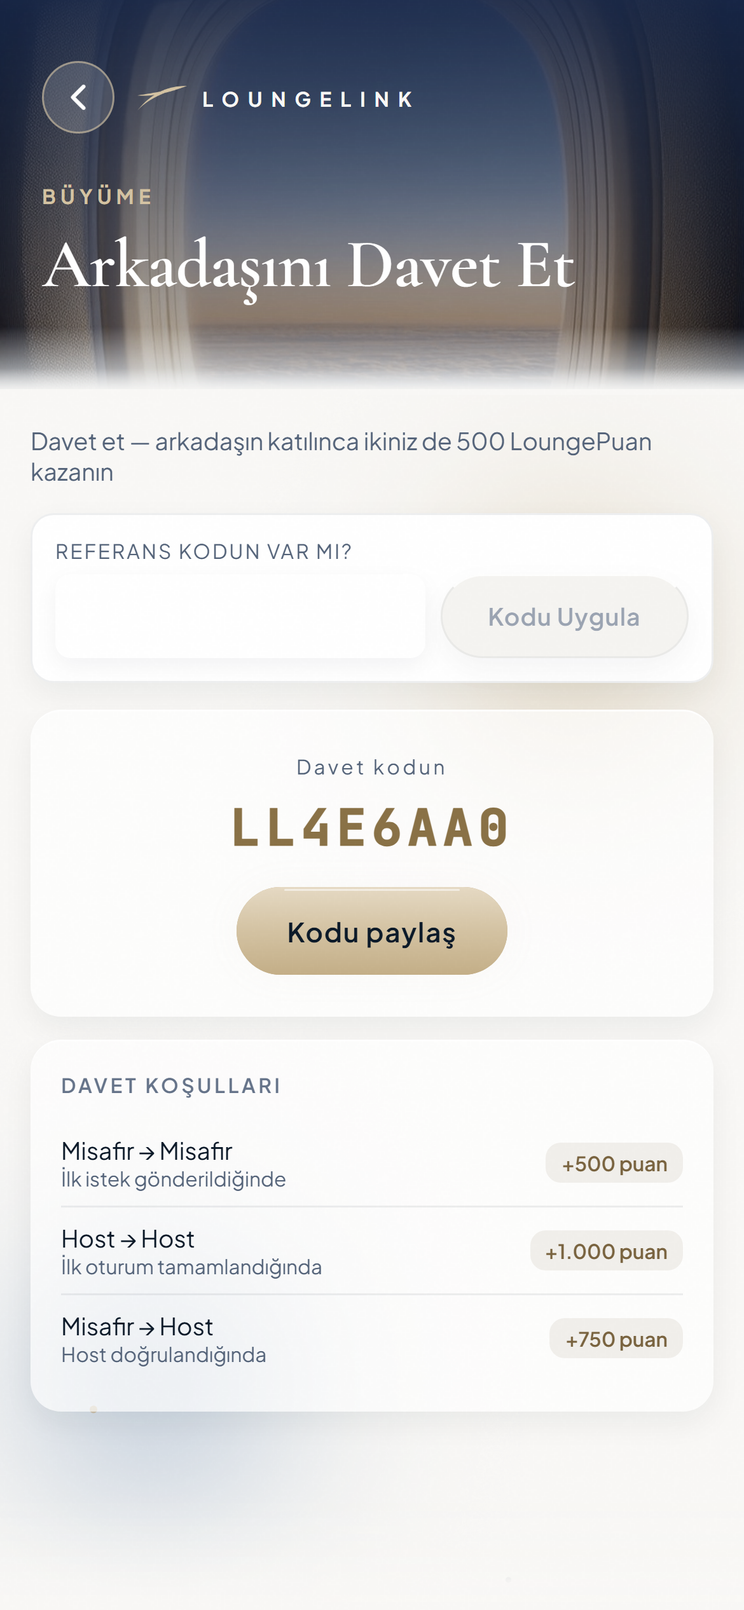
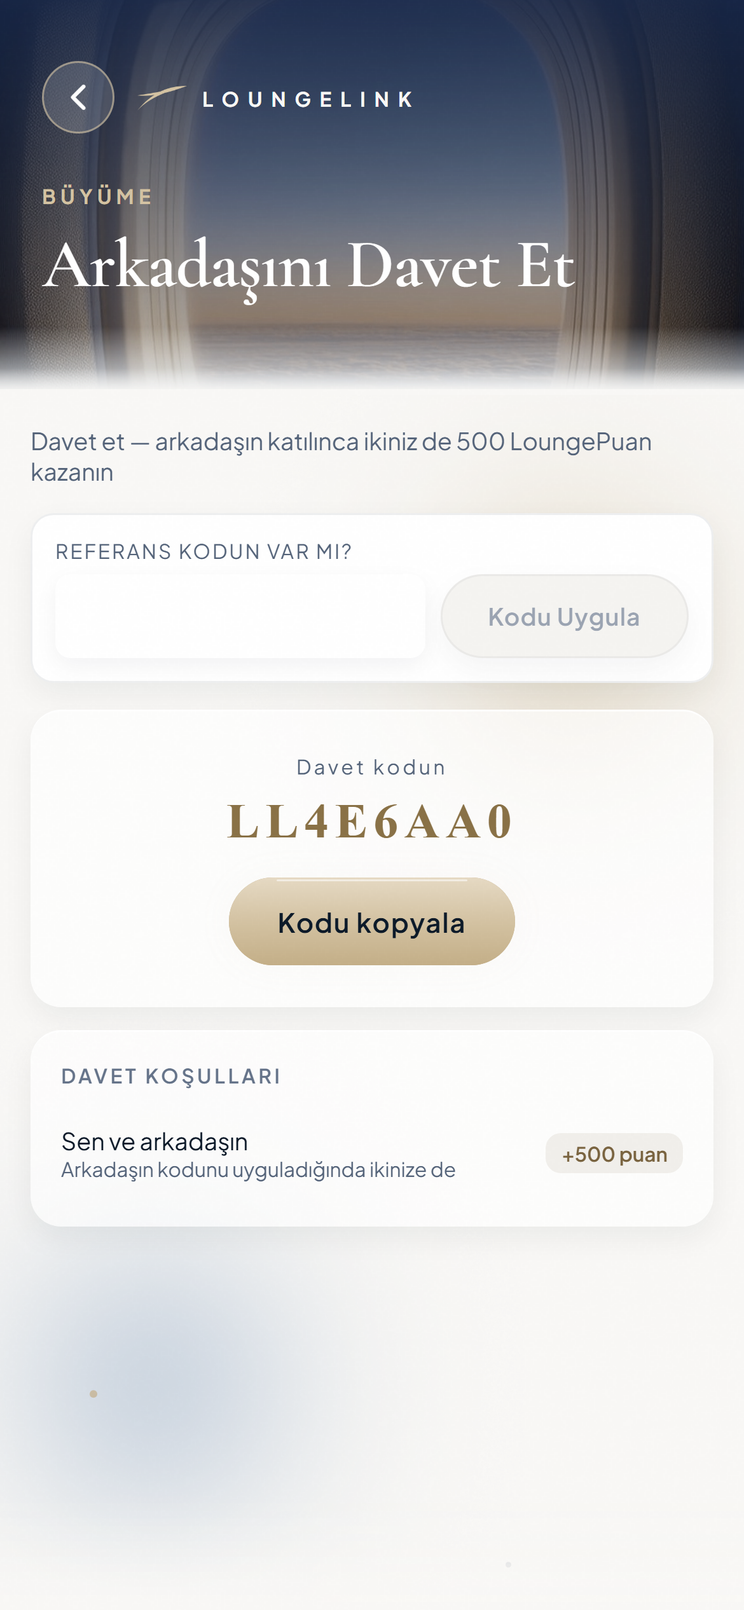
v7.2 son tur: 6.3.0, rozet/golge, plan cercevesi, K4 sahnesi, push ikon/renk, kodu kopyala, e2e Windows kosucusu

diff --git a/rnapp/src/ekranlar_ana.js b/rnapp/src/ekranlar_ana.js
@@ -38,6 +38,7 @@ import AsyncStorage from "@react-native-async-storage/async-storage";
 // Uyum yüzdesi, geri sayım, kredi. Gerekçe src/typography.js `MONO`.
 import { MONO } from "./typography";
 import { RotaHatti, BosDurum, ChipIcon, ConfirmModal, FotoBant, Hdr, LoadFail, TOPPAD, Toggle, ToneBadge, Sayfa, Btn, Secim, Cip, KararCipi, Olgu, useDaralanBant, Kaydirma, Muhur, IsikliKart, PerdeBulanik, POPUP_YUZEY, UyumMuhru, CamSerit, DurumSatiri, YeniEtiket, yeniCerceve } from "./ui";
+import * as Clipboard from "expo-clipboard";
 import React, { useCallback, useEffect, useRef, useState, useMemo} from "react";
 import { ActivityIndicator, BackHandler, Image, Linking, Modal, ScrollView, Share, StyleSheet, Text, TextInput, TouchableOpacity, View } from "react-native";
 import { Amenities, BaglantiIstekleri, Chat, DateInput, HaberVer, LiveStatus, Picker, Plans, ProfileCompletionWidget, ReportUser, RequestsPanel, VerifyPhone, profOpts, timeOk } from "./ekranlar_yalin";
@@ -2582,8 +2583,12 @@ export function Meet({ t, lang, session, rol, onOpenProfile, onOpenChat, radarFi
     // `discover_people.purpose` = visits.purpose (business/connecting/…) —
     // niyet değil. Eski eşleme (coffee/work/wait) hiç tutmuyordu, çip hiç
     // çıkmıyordu. Aynı amaç → "Aynı rota tanışma" (tasarım 05), değilse amacın adı.
-    const amac = p.same_purpose ? t.reqTypeRoute
-      : (p.purpose ? gorunur((PURPOSES.find(x => x[0] === p.purpose) || [])[1] || null) : null);
+    // 4 Ekim (Gökberk: "'aynı rota tanışma' cümlesi anlaşılmıyor") — `same_purpose` ROTA değil
+    // seyahat AMACIDIR (iş · aktarma · tatil). Rozet artık ne olduğunu söylüyor: "Aynı amaç · İş".
+    const amacAdi = p.purpose ? gorunur((PURPOSES.find(x => x[0] === p.purpose) || [])[1] || null) : null;
+    const amac = p.same_purpose
+      ? (amacAdi ? String(t.v7AyniAmac || "{x}").replace("{x}", amacAdi) : t.reqTypeRoute)
+      : amacAdi;
     return (
     <TouchableOpacity activeOpacity={0.85} disabled={!onAc && !p.user_id} hitSlop={TAP.slop}
       onPress={onAc || (() => p.user_id && onOpenProfile && onOpenProfile(p.user_id))}
@@ -2619,13 +2624,14 @@ export function Meet({ t, lang, session, rol, onOpenProfile, onOpenChat, radarFi
         {!!rota && <Text numberOfLines={1} style={{ color: C.mutedAA, fontSize: FS.xs + 1, marginTop: ARA[2] }}>{rota}</Text>}
         <View style={{ flexDirection: "row", flexWrap: "wrap", gap: ARA[6], marginTop: ARA[8] }}>
           {/* tasarım 05: aynı uçuş = teal ("ok"), amaç = bilgi tonu */}
-          {flightTag ? <Cip etiket={t.sameFlight} ton="teal" /> : null}
-          {amac ? <Cip etiket={amac} ton="purple" /> : null}
+          {flightTag ? <Cip etiket={t.sameFlight} ton="teal" isaret="ucus" /> : null}
+          {amac ? <Cip etiket={amac} ton="purple" isaret="hedef" /> : null}
           {/* 5 Eylül (Gökberk: "ilana git düğmesini kaldırdık mı?") — kartta
               düğme yok (tasarım 05); ilanı olan kişi altın çiple işaretlenir,
               kısayol bağlantı sayfasında ("İlanına git"). Host'a gösterilmez. */}
           {p.is_hosting && p.host_avail_id && rol !== "host" ? <Cip etiket={t.meetHasListing} ton="gold" /> : null}
-          {p.badge ? <Cip etiket={`• ${badgeLabel(t, p.badge)}${p.score != null ? ` · ${p.score}` : ""}`} ton="notr" /> : null}
+          {/* "• Temel Doğrulama · 38" — 38'in ne olduğu yazmıyordu → "Temel doğrulama · güven 38" */}
+          {p.badge ? <Cip etiket={`${badgeLabel(t, p.badge)}${p.score != null ? ` · ${String(t.v7GuvenKisa || "{n}").replace("{n}", String(p.score))}` : ""}`} ton="notr" isaret="guvenlik" /> : null}
           {p.connected ? <Cip etiket={t.connActiveShort} ton="teal" /> : null}
           {p.rel === "pending" ? <Cip etiket={t.connSent} ton="notr" /> : null}
           {ikinci}
@@ -4164,7 +4170,8 @@ export function Referral({ t, session, onBack }) {
         <RefCodeEntry t={t} />
         <View style={[S.card, { alignItems: "center", paddingVertical: ARA[22] }]}>
           <Text style={{ fontSize: FS.xs, color: C.mut, letterSpacing: 1.5 }}>{t.refCode}</Text>
-          <Text style={{ fontSize: FS.display, fontFamily: MONO[600], fontWeight: "700", color: C.gold, letterSpacing: 3, marginTop: SP[2] }}>{code || "..."}</Text>
+          {/* 4 Ekim (Gökberk): kod SEÇİLEBİLİR — uzun basınca kopyala/yapıştır da çalışır. */}
+          <Text selectable style={{ fontSize: FS.display, fontFamily: MONO[600], fontWeight: "700", color: C.gold, letterSpacing: 3, marginTop: SP[2] }}>{code || "..."}</Text>
           {/* 🔴 v2.99 — BU DÜĞME HİÇBİR ŞEY PAYLAŞMIYORDU.
               `onPress={() => setCopied(true)}` yalnız yazıyı "Kopyalandı"
               yapıyordu; panoda hiçbir şey yoktu. Altındaki üç kutu da
@@ -4180,30 +4187,29 @@ export function Referral({ t, session, onBack }) {
               🆕 SINIF: "ÇALIŞIYORMUŞ GİBİ GÖRÜNEN BİR DÜĞME, OLMAYAN BİR
               DÜĞMEDEN KÖTÜDÜR — ÇÜNKÜ KULLANICI ONU BİR KEZ DENER VE
               ÜRÜNÜN GERİ KALANINA DA GÜVENMEZ." */}
-          <Btn label={copied ? t.refCopied : t.refShare} onPress={async () => {
+          {/* 4 Ekim (Gökberk: "kodu paylaş'ta sadece kopyalama yapıyorsak buton adı 'Kodu kopyala' olsun") —
+              paylaşım sayfası yerine PANOYA kopyalama (expo-clipboard). Kişi kendi kodunu "Referans kodun
+              var mı?" alanında kullanamaz: sunucu `self_referral_blocked` döner (errMap'te TR+EN cümle). */}
+          <Btn label={copied ? t.refCopied : (t.refCopy || t.refShare)} onPress={async () => {
               if (!code) return;
-              setPaylasiyor(true);
               try {
-                // 🔴 DEĞİŞKENİ `r` DİYE ADLANDIRMIŞTIM ve RPC alan nöbetçisi
-                // `r.action`'ı `iletisim_epostam_yaz()`ın dönüşü sandı. Aynı
-                // sınıf hatayı bu projede ikinci kez yaptım (v2.96: `k`).
-                // 🆕 SINIF: "BİR DEĞİŞKEN ADI YALNIZ İNSANA DEĞİL, KAYNAĞI
-                // ADLA İZLEYEN NÖBETÇİYE DE BİLDİRİMDİR."
-                const paylasim = await Share.share({
-                  message: String(t.refShareMsg || "").replace("{kod}", String(code)),
-                });
-                if (paylasim && paylasim.action === Share.sharedAction) setCopied(true);
-              } catch (e) { logError("referans_paylas", e); }
-              finally { setPaylasiyor(false); }
+                await Clipboard.setStringAsync(String(code));
+                setCopied(true);
+                setTimeout(() => setCopied(false), 2400);
+              } catch (e) { logError("referans_kopyala", e); }
             }}
-            disabled={!code || paylasiyor} busy={paylasiyor}
+            disabled={!code}
             style={{ marginTop: ARA[14], paddingHorizontal: ARA[26] }} />
         </View>
         {/* MVP: davet koşulları tablosu */}
         <View style={S.card}>
           <Text style={{ fontSize: FS.xs, fontWeight: "600", color: C.dim, letterSpacing: 1.5, marginBottom: SP[3] }}>{t.refConditions}</Text>
           {/* 🔵 v2.99 — "Guest → Guest" TÜRKÇE ARAYÜZDE İNGİLİZCE duruyordu. */}
-          {[[t.refWhoGG, t.refCondGG, "+500"], [t.refWhoHH, t.refCondHH, "+1.000"], [t.refWhoGH, t.refCondGH, "+750"]].map(([who, when, pts], i, arr) => (
+          {/* 4 Ekim — KOŞUL TABLOSU SUNUCUYLA EŞİTLENDİ. Ekran üç kademe vaat ediyordu (+500 · +1.000 ·
+              +750); `apply_referral` yalnız kod uygulandığında İKİ TARAFA +500 veriyor, diğer kademeleri
+              veren hiçbir kod yok (ölçüldü: points_ledger nedenleri referral_invite/joined). Vaat
+              edilmeyen ödül gösterilmez. Kademeler istenirse sunucu tarafı önce yazılır. */}
+          {[[t.v7RefKim, t.v7RefNe, "+500"]].map(([who, when, pts], i, arr) => (
             <View key={who} style={{ flexDirection: "row", justifyContent: "space-between", alignItems: "center", paddingVertical: SP[2], borderBottomWidth: i < arr.length - 1 ? 1 : 0, borderBottomColor: C.line }}>
               <View>
                 <Text style={{ fontSize: FS.sm, color: C.ink }}>{who}</Text>

diff --git a/rnapp/src/kutu_isik.js b/rnapp/src/kutu_isik.js
@@ -30,7 +30,7 @@ function topla(st, o) {
   if (Array.isArray(st)) { for (let i = 0; i < st.length; i++) topla(st[i], o); return o; }
   if (typeof st !== "object") return o;
   for (const k of ["backgroundColor", "borderRadius", "padding", "paddingVertical",
-                   "paddingHorizontal", "paddingTop", "width", "shadowOpacity"]) {
+                   "paddingHorizontal", "paddingTop", "width", "shadowOpacity", "borderWidth", "borderColor"]) {
     if (st[k] !== undefined) o[k] = st[k];
   }
   return o;
@@ -41,14 +41,21 @@ const ISIK = Platform.OS === "android"
   : { shadowColor: "#0D1B2A", shadowOpacity: 0.07, shadowRadius: 18, shadowOffset: { width: 0, height: 6 },
       borderTopWidth: 1, borderTopColor: "rgba(255,255,255,0.9)" };
 
+// 4 Ekim (Gökberk: "plan sayfasında seçili planın çerçevesinin üstü yok") — üst ışık kenarı,
+// BİLİNÇLİ çerçevesi olan kutunun üst çizgisini eziyordu. Çerçeveli kutu yalnız gölge alır.
+const GOLGE = Platform.OS === "android" ? { elevation: 2 }
+  : { shadowColor: "#0D1B2A", shadowOpacity: 0.07, shadowRadius: 18, shadowOffset: { width: 0, height: 6 } };
 function isikliMi(style) {
   const o = topla(style, {});
-  if (!o.backgroundColor || !tintler().has(o.backgroundColor)) return false;
-  if (o.width !== undefined) return false;
-  if (o.shadowOpacity !== undefined) return false;   // kendi gölgesini seçmiş
-  if (!(o.borderRadius >= 10)) return false;
+  if (!o.backgroundColor || !tintler().has(o.backgroundColor)) return null;
+  if (o.width !== undefined) return null;
+  if (o.shadowOpacity !== undefined) return null;   // kendi gölgesini seçmiş
+  if (!(o.borderRadius >= 10)) return null;
   const pay = Math.max(o.padding || 0, o.paddingVertical || 0, o.paddingHorizontal || 0, o.paddingTop || 0);
-  return pay >= 10;
+  if (pay < 10) return null;
+  const cerceveli = (o.borderWidth || 0) > 0 && o.borderColor && o.borderColor !== "transparent"
+                    && !/rgba\([^)]*,\s*0\)$/.test(String(o.borderColor));
+  return cerceveli ? GOLGE : ISIK;
 }
 
 export function bilgiKutusuUygula() {
@@ -57,9 +64,8 @@ export function bilgiKutusuUygula() {
   const eski = B.render;
   B.__llKutu = true;
   B.render = function (props, ...rest) {
-    if (props && props.style && temaModu() === "v7" && isikliMi(props.style)) {
-      return eski.call(this, { ...props, style: [props.style, ISIK] }, ...rest);
-    }
+    const ek = props && props.style && temaModu() === "v7" ? isikliMi(props.style) : null;
+    if (ek) return eski.call(this, { ...props, style: [props.style, ek] }, ...rest);
     return eski.call(this, props, ...rest);
   };
   return true;

diff --git a/rnapp/src/ui.js b/rnapp/src/ui.js
@@ -582,7 +582,13 @@ export function Secim({ etiket, alt, secili, onPress, ton = "gold",
         alignSelf: cip ? "flex-start" : undefined,
         flex: segment ? 1 : undefined,
         opacity: disabled ? 0.55 : 1,
-      }, stil]}>
+      },
+      // v7.2 (Gökberk 4. tur: "gölgelendirmeler tanıştaki uçuş/salon/rota gibi sekme yapılarına da")
+      temaModu() === "v7" ? {
+        backgroundColor: secili ? secZemin : (zemin === "yok" ? "transparent" : "#FFFFFF"),
+        borderColor: secili ? (C.goldLine || T2.bd) : "transparent",
+        shadowColor: "#0D1B2A", shadowOpacity: zemin === "yok" ? 0 : 0.06, shadowRadius: 8, shadowOffset: { width: 0, height: 3 },
+      } : null, stil]}>
       {/* Radyo noktası — seçili hâlin İKİNCİ işareti. Yalnız renkle
           anlatılan bir seçim, renk körü bir kullanıcıda kaybolur.
           🆕 SINIF: "SEÇİLİLİK TEK BİR KANALDAN ANLATILIRSA, O KANALI
@@ -765,7 +771,10 @@ export function Cip({ etiket, ton = "gold", secili, onPress, onLongPress, stil, 
   }
   const zemin = secili ? C.goldBtn
     : dolgu ? ((C.badge && C.badge[dolgu === true ? (ton === "ok" ? "ok" : ton === "engel" ? "block" : "cost") : dolgu] || {}).bg || C.bgAlt)
-    : C.bgAlt;
+    : (temaModu() === "v7" ? "#FFFFFF" : C.bgAlt);
+  // v7.2 (Gökberk 4. tur: "badge alanlarına da gölge") — çip zeminde kaybolmasın.
+  const v7Golge = temaModu() === "v7" && !kabartma
+    ? { shadowColor: "#0D1B2A", shadowOpacity: 0.08, shadowRadius: 6, shadowOffset: { width: 0, height: 2 }, elevation: 1 } : null;
   // ══════════════════════════════════════════════════════════════════
   // `kabartma` — KARAR ROZETİ BİR ETİKET DEĞİL, BİR MÜHÜR (12 Eylül)
   //
@@ -793,7 +802,7 @@ export function Cip({ etiket, ton = "gold", secili, onPress, onLongPress, stil, 
     <View style={[{ height: 26, borderRadius: R.full, paddingHorizontal: ARA[12],
                     flexDirection: "row", alignItems: "center", alignSelf: "flex-start",
                     backgroundColor: zemin,
-                    borderWidth: 0 },
+                    borderWidth: 0 }, v7Golge,
                   kabartma ? {
                     // v7: siyah %38 gölge fildişi zeminde "kirli" duruyordu → lacivert %10.
                     shadowColor: temaModu() === "v7" ? "#0D1B2A" : "#000000",

diff --git a/rnapp/src/i18n.js b/rnapp/src/i18n.js
@@ -1523,6 +1523,8 @@ export const D = {
     v7SesCanli: "Oturum · canlı", v7SesIle: "{name} ile", v7SesBuluss: "Buluşma",
     v7NasilGecti: "Nasıl geçti?", v7Puan1: "Pek iyi değildi.", v7Puan2: "İdare eder.", v7Puan3: "İyiydi.",
     v7Puan4: "Çok iyiydi.", v7Puan5: "Harika bir sohbetti.", v7PuanBos: "Yıldızlara dokun.",
+    v7AyniAmac: "Aynı amaç · {x}", v7GuvenKisa: "güven {n}",
+    refCopy: "Kodu kopyala", v7RefKim: "Sen ve arkadaşın", v7RefNe: "Arkadaşın kodunu uyguladığında ikinize de",
     // Özellik saymayı bıraktık: "doğrulanmış yolcular, emanet korumalı"
     // bir liste, bir sahne değil. Sahne kuruluyor — kalkışa iki saat var
     // ve iki kişi aynı terminalde birbirini bilmiyor.
@@ -3601,6 +3603,8 @@ export const D = {
     v7SesCanli: "Session · live", v7SesIle: "With {name}", v7SesBuluss: "Meeting",
     v7NasilGecti: "How was it?", v7Puan1: "Not great.", v7Puan2: "It was okay.", v7Puan3: "It was good.",
     v7Puan4: "Really good.", v7Puan5: "A great conversation.", v7PuanBos: "Tap the stars.",
+    v7AyniAmac: "Same purpose · {x}", v7GuvenKisa: "trust {n}",
+    refCopy: "Copy code", v7RefKim: "You and your friend", v7RefNe: "When your friend applies your code, each of you gets",
     start: "Get Started",
     login: "Log In",
     name: "FULL NAME",

diff --git a/rnapp/App.js b/rnapp/App.js
@@ -1913,6 +1913,13 @@ export function Main({ t, lang, toggleLang, setLangGlobal, session }) {
             style={{ backgroundColor: temaModu() === "v7" ? "transparent" : C.bg, paddingHorizontal: ARA[14],
                      marginTop: temaModu() === "v7" ? -40 : 0, zIndex: 10,
                      paddingTop: temaModu() === "v7" ? ARA[26] : ARA[6], paddingBottom: ARA[18] }}>
+      {/* v7.2 (Gökberk 4. tur: "bildirimlerde işaretlediğim yerde arka planda bir şeyler görüyorum") —
+          çubuğun üst payı tamamen saydamdı: liste metni kapsülün üstünde yarım kesik görünüyordu.
+          Fildişi geçiş (alttan opak → üstte saydam): içerik çubuğun altına süzülerek kaybolur. */}
+      {temaModu() === "v7" ? (
+        <Image pointerEvents="none" source={require("./assets/v7_fildisi_alt.png")} resizeMode="stretch"
+          style={{ position: "absolute", left: 0, right: 0, top: 0, bottom: 0, width: "100%", height: "100%" }} />
+      ) : null}
       {/* 🔴 28 EYLÜL (Gökberk: "tüm iç sayfalarda tabbar görünüyor, arkadaki
           butonları örtüyor; tabbara basınca arkadaki butona basılıyor").
           KÖK: kapsülün Android yükseltmesi 12, iç sayfa katmanınınki 0.

diff --git a/rnapp/src/push.js b/rnapp/src/push.js
@@ -109,7 +109,8 @@ async function tokenKaydet() {
           // Gece sisteminin altını (#E0BE7A). Eskiden AÇIK temanın
           // altını (#B8943A) yazıyordu — koyu bildirim gölgesinde
           // çamurlu okunuyordu ve ürünün hiçbir yerinde o renk yok.
-          lightColor: C.gold,
+          // v7: bildirim ışığı şampanya (marka ışığı); simge ve uygulama adı app.json'da bronz.
+          lightColor: C.goldBtn || C.gold,
         });
       }
     }

diff --git a/rnapp/web_sahne/cek.py b/rnapp/web_sahne/cek.py
@@ -128,6 +128,7 @@ SAHNELER = {
     "88_oturum_puanla": ("selin",  [("dokun", "Şimdi puanla"), ("bekle", 2200), ("dokun", "Şimdi puanla"), ("bekle", 1800)]),   # ekran: Chat · oturum paneli (puanlama · K8)
     "89_seyahat_duzenle": ("gokberk", [("dokun", "Planım"), ("bekle", 900), ("dokun_a11y", "Seyahati düzenle"), ("bekle", 1200)]),   # ekran: EditTrip
     "90_ilan_duzenle": ("selin",   [("dokun", "Planım"), ("bekle", 700), ("dokun_a11y", "İlanlarım"), ("bekle", 900), ("dokun", "İlanı düzenle"), ("bekle", 1200)]),   # ekran: EditAvailability
+    "91_kural_damga": ("nehir", [("dokun", "Keşfet"), ("bekle", 1800), ("dokun_a11y", "Filtre"), ("bekle", 600), ("dokun", "Havalimanı seç…"), ("bekle", 600), ("yaz", "Havalimanı ara…", "ADB"), ("bekle", 800), ("ilk_metin", "ADB"), ("bekle", 900), ("dokun_a11y", "Filtre"), ("bekle", 1500), ("dokun_a11y", "Uyum"), ("bekle", 1200), ("kaydir",), ("bekle", 2600)]),   # K4 · 10/10 şart (Tuna H. · ADB) — damga
     "86_akis_nehir_sohbet":  ("nehir", [("dokun", "SOHBET"), ("bekle", 1500), ("dokun_a11y", "Sohbeti Aç"), ("bekle", 1500)]),   # ekran: Chat (v7 · gokberk dünyasında oturum yok)
     "74_akis_nehir_baglanti":("nehir", [("dokun", "SOHBET"), ("dokun_a11y", "Bağlantılar"), ("bekle", 1200)]),   # ekran: HomeConnections
     "75_akis_arda_ana":      ("arda",  [("bekle", 1500)]),   # ekran: Home
@@ -292,6 +293,14 @@ def adim_uygula(pg, adim, kayit):
             except Exception:
                 ortala(hedef)
                 hedef.click(timeout=4000)
+        elif tur == "ilk_metin":
+            pg.get_by_text(re.compile("^\s*" + re.escape(adim[1]), re.I)).first.click(timeout=4000)
+        elif tur == "kart_uyum":
+            # 4 Ekim — belirli bir KARTIN uyum mührüne dokun (tüm mühürlerin etiketi aynı: "Uyum puanı: NN").
+            kart = pg.locator("div", has_text=adim[1]).filter(has=pg.get_by_label(re.compile("Uyum", re.I))).last
+            hedef = kart.get_by_label(re.compile("Uyum", re.I)).first
+            ortala(hedef)
+            hedef.click(timeout=4000)
         elif tur == "yaz":
             pg.get_by_placeholder(adim[1]).first.fill(adim[2], timeout=4000)
         elif tur == "bekle":
@@ -487,6 +496,12 @@ def cek(sahneler, tam=False):
                 for adim in adimlar:
                     adim_uygula(pg, adim, kayit)
                 pg.wait_for_timeout(900)
+                # 4 Ekim: soğuk tarayıcıda ilk sahnede görseller (açılış kanadı) henüz yüklenmemiş olabiliyordu
+                # → kare kanatsız çekildi. Bütün <img>'ler tamamlanana kadar bekle (en çok 6 sn).
+                try:
+                    pg.wait_for_function("Array.from(document.images).every(i => i.complete && i.naturalWidth > 0)", timeout=6000)
+                except Exception:
+                    kayit["errors"].append("gorseller 6 sn'de yuklenmedi")
                 # Windows'ta PNG yazımı arada kilitleniyor (Errno 22, iki kez ölçüldü): 4 deneme.
                 for _den in range(4):
                     try:

diff --git a/rnapp/render_check/e2e_win_kos.py b/rnapp/render_check/e2e_win_kos.py
@@ -1,0 +1,59 @@
+# Windows'ta e2e testlerini koşturan sarmalayıcı (test dosyalarına dokunmaz).
+# Neden: testler psql'i yalnız {PATH, HOME} ortamıyla çağırıyor (Linux varsayımı). Windows'ta
+# SYSTEMROOT olmadan psql ağ katmanını açamıyor ve hata metni cp1254 geldiği için UTF-8 çözümü
+# patlıyordu. Burada alt süreçlere tam Windows ortamı + PGCLIENTENCODING=UTF8 verilir.
+# Kullanım: python render_check/e2e_win_kos.py render_check/iptal_akisi_e2e.py
+import os, runpy, subprocess, sys
+
+_orig = subprocess.run
+
+
+def _run(*a, **k):
+    # Windows psql'i URI'den SONRAKİ seçenekleri yok sayıyor ("extra command-line argument
+    # ignored") → sorgular ve migration'lar hiç koşmuyordu. URI'yi `-d` ile başa al.
+    if a and isinstance(a[0], (list, tuple)) and a[0] and str(a[0][0]).lower().rstrip(".exe").endswith("psql"):
+        cmd = list(a[0])
+        uri = next((x for x in cmd[1:] if str(x).startswith("postgres")), None)
+        if uri is not None:
+            cmd.remove(uri)
+            cmd = [cmd[0], "-d", uri] + cmd[1:]
+        # Windows komut satırı UTF-8 SQL'i cp1254'e çeviriyor ("—" → 0x97, geçersiz UTF8):
+        # ASCII dışı -c argümanları geçici dosyaya yazılıp -f ile verilir (sıra korunur).
+        yeni = []
+        i = 0
+        while i < len(cmd):
+            if cmd[i] == "-c" and i + 1 < len(cmd) and any(ord(ch) > 127 for ch in str(cmd[i + 1])):
+                import tempfile
+                fd, yol = tempfile.mkstemp(suffix=".sql")
+                with os.fdopen(fd, "w", encoding="utf-8") as f:
+                    f.write(str(cmd[i + 1]))
+                yeni += ["-f", yol]
+                i += 2
+                continue
+            yeni.append(cmd[i]); i += 1
+        a = (yeni,) + tuple(a[1:])
+    if k.get("env") is not None:
+        e = dict(os.environ)
+        for kk, vv in k["env"].items():
+            if kk not in ("PATH", "HOME"):
+                e[kk] = vv
+        e["PGCLIENTENCODING"] = "UTF8"
+        e["LC_MESSAGES"] = "C"
+        k["env"] = e
+    if k.get("text") or k.get("universal_newlines"):
+        k.setdefault("encoding", "utf-8")
+        k.setdefault("errors", "replace")
+    r = _orig(*a, **k)
+    try:
+        cmd = a[0] if a else []
+        if os.environ.get("E2E_LOG") and ("-f" in cmd or "-c" in cmd) and r.returncode != 0:
+            with open(os.environ["E2E_LOG"], "a", encoding="utf-8") as f:
+                f.write(str(cmd[(cmd.index("-f") if "-f" in cmd else cmd.index("-c")) + 1])[:120] + " :: " + str(r.stderr)[:600] + chr(10))
+    except Exception:
+        pass
+    return r
+
+
+subprocess.run = _run
+sys.argv = sys.argv[1:]
+runpy.run_path(sys.argv[0], run_name="__main__")

diff --git a/rnapp/web_sahne/hareket_kayit.py b/rnapp/web_sahne/hareket_kayit.py
@@ -35,6 +35,13 @@ def main():
                 kim = cek.SAHNELER[sahne][0]
                 pg.goto(f"http://127.0.0.1:{port}/?sahne={sahne}&kim={kim}&dil=tr&kopru=http://127.0.0.1:{cek.KOPRU_PORT}",
                         wait_until="networkidle")
+                # Soğuk tarayıcı: görseller yüklenmeden hareket başlarsa (K1) kanat görünmüyordu.
+                # Önce her şey yüklensin, sonra sayfa yeniden açılsın ve hareket baştan oynasın.
+                try:
+                    pg.wait_for_function("Array.from(document.images).every(i => i.complete && i.naturalWidth > 0)", timeout=8000)
+                except Exception:
+                    pass
+                pg.reload(wait_until="networkidle")
                 pg.wait_for_timeout(sure)
                 ctx.close()
                 vid = glob.glob(os.path.join(gecici, "*.webm"))

diff --git a/rnapp/brand/build_v7_perde.py b/rnapp/brand/build_v7_perde.py
@@ -68,3 +68,17 @@ for y in range(h):
             break
 im.save(os.path.join(A, "v7_acilis_perde.png"))
 print("v7_acilis_perde.png")
+
+# Bildirim kucuk ikonu (Android): BEYAZ siluet, saydam zemin, 96x96 — kanat (v7 marka isareti).
+k = Image.open(os.path.join(A, "mark-kanat.png")).convert("RGBA")
+alfa = k.getchannel("A")
+bbox = alfa.getbbox()
+alfa = alfa.crop(bbox)
+w, h = alfa.size
+olcek = 80 / max(w, h)
+alfa = alfa.resize((max(1, round(w * olcek)), max(1, round(h * olcek))), Image.LANCZOS)
+ikon = Image.new("RGBA", (96, 96), (255, 255, 255, 0))
+beyaz = Image.new("RGBA", alfa.size, (255, 255, 255, 255)); beyaz.putalpha(alfa)
+ikon.alpha_composite(beyaz, ((96 - alfa.width) // 2, (96 - alfa.height) // 2))
+ikon.save(os.path.join(A, "notification-icon.png"))
+print("notification-icon.png")

diff --git a/DEVIR/2026-10-02b_v7-aviation-light-onay-paketi.md b/DEVIR/2026-10-02b_v7-aviation-light-onay-paketi.md
@@ -198,3 +198,47 @@ Web sahnedeki 3 hatalı sahne v7 kaynaklı değil:
   - app_boot gecti
 - Web sahne 89/89 temiz. 9 video.
 - Onay sayfasi v5.
+
+## EK 5 · 4 Ekim (son tur, kullanim siniri doldu - build ALINMADI)
+- Surum 6.3.0: app.json versionCode 279, buildNumber 273, package.json + lock.
+- Splash kanadi: kod dogru, olculdu (12k acik piksel). Eksiklik cekim yarisiydi.
+  - Sebep: soguk tarayicida ilk sahne.
+  - Duzeltme: cek.py ve hareket_kayit.py gorseller yuklenene kadar bekler; K1 videosu yeniden kayitla duzelir.
+- kutu_isik: cerceveli kutu yalniz golge alir; Plan secili cercevesi duzeldi.
+- Golge ve rozetler:
+  - Secim/Cip v7: beyaz + golge.
+  - Rozetler ikonlu: "Ayni amac · X" (eski "Ayni rota tanisma" yanlisti, same_purpose = seyahat amaci), "Temel dogrulama · guven N".
+- Sekme cubugu arkasina fildisi gecis (bildirimlerde metin sizmasi).
+- K4: scene 91_kural_damga (Nehir · ADB Tuna H. ilani, 10/10 sart) -> damga gorunuyor. 03b'de sart bilinmiyor -> damga yok (dogru davranis).
+- Push:
+  - notification-icon = kanat siluet; renk #8A7247; kanal isigi sampanya.
+  - ⚠ google-services.json YOK: Android push hic calismadi (eskiden beri). Gokberk Firebase'den indirip rnapp/ koymali.
+- Davet:
+  - "Kodu kopyala" (expo-clipboard YENI native bagimlilik), kod secilebilir.
+  - Kosul tablosu sunucuyla esitlendi: yalniz +500/+500 var. Ekranin vaat ettigi +1000/+750 kademeleri BE'de yok; karar Gokberk'te.
+  - BE testi:
+    - kendi kodu self_referral_blocked
+    - gecersiz kod invalid
+    - basarili +500/+500
+    - tekrar kullanma referral_already_used
+- e2e Windows kosucusu: render_check/e2e_win_kos.py.
+  - Duzeltilenler: psql -d, tam ortam, cp1254 -c -> -f.
+  - pgserver initdb'ye --no-locale (site-packages, yedek .yedek).
+- e2e sonuclari:
+  - iptal 47/47
+  - edge 19/19
+  - flow_matrix 27/27
+  - onboarding 16/16
+  - rule_dims 55/55
+  - tam_akis 171/171
+  - rpc_field ok
+  - two_account 14 adim ok
+  - flight_chain: kendi siralamasi 268a'yi 268'den once kosuyor (268a elle kosulan kosullu dosya) -> test altyapisi, urun hatasi degil.
+  - win_e2e: IndexError (incelenmedi).
+- ACIK:
+  - EAS build + push onayi
+  - google-services.json
+  - davet kademeleri karari
+  - web sitesi v7 guncellemesi + uygulama ici gorseller
+  - 91 sahnesini galeriye ekleme ve tam sahne + video yeniden kayit
+  - win_e2e
